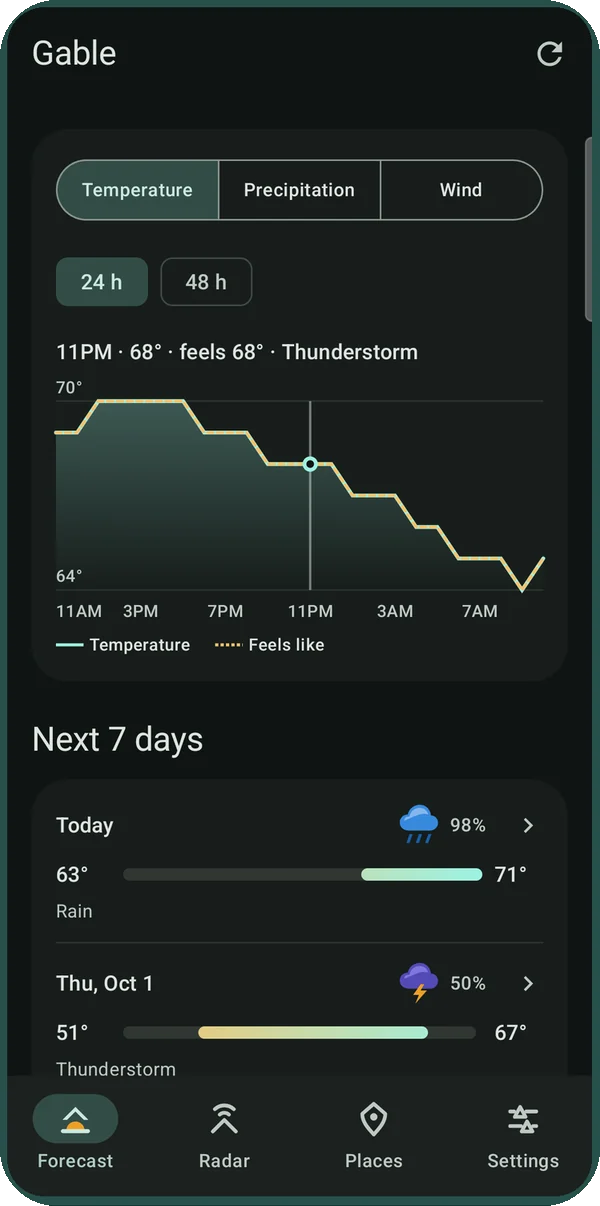
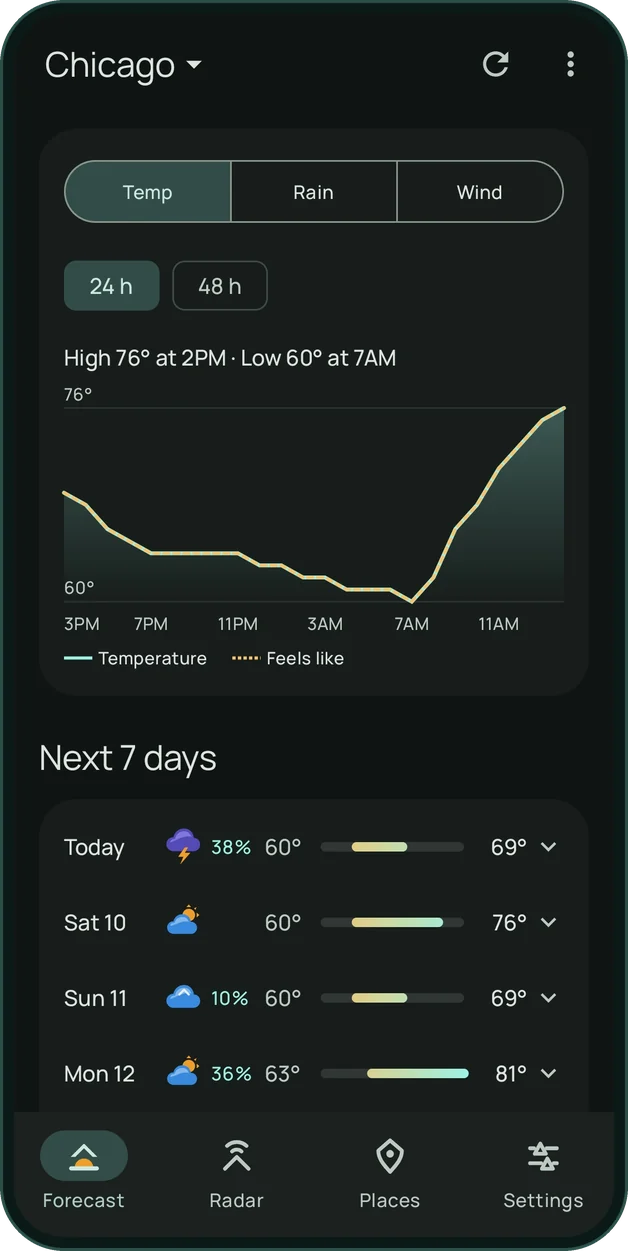
Gable page: new screenshots (Chicago forecast, raw and smooth radar, velocity, forecast discussion, charts) and a hurricane tracker section
Claude-Session: https://claude.ai/code/session_01N2TeVsyqh4sKut5D4sgKFN

diff --git a/gable/index.html b/gable/index.html
@@ -122,6 +122,10 @@
   .feature p { margin: 0 0 12px; max-width: 30em; }
   .tag { display: inline-block; font-size: 13px; font-weight: 600; color: var(--accent);
     border: 1px solid var(--border); border-radius: 999px; padding: 2px 10px; margin-top: 6px; }
+  .pair { display: flex; gap: 20px; justify-content: center; }
+  .pair figure { margin: 0; width: min(240px, 47%); text-align: center; font-size: 14px; color: var(--muted); }
+  .pair img { filter: drop-shadow(0 20px 40px rgba(10,39,36,.25)); margin-bottom: 10px; }
+  .feature.flip .pair { order: -1; }
   .shot { justify-self: center; width: min(300px, 100%); filter: drop-shadow(0 20px 40px rgba(10,39,36,.25)); }
 
   /* Numbered list */
@@ -195,7 +199,7 @@
           <span class="free"><b>Free</b> · No ads · Android</span>
         </div>
       </div>
-      <img class="hero-phone" src="../assets/gable/forecast.webp" width="600" height="1206" alt="Gable's forecast screen: a Flood Watch banner, a rainy 69 degree forecast card and a note that rain starts around 2:15 PM">
+      <img class="hero-phone" src="../assets/gable/forecast.webp" width="628" height="1251" alt="Gable's forecast for Chicago: 69 degrees and overcast, a quip about the clouds, and no rain expected for the next four hours">
     </div>
   </div>
 </header>
@@ -215,10 +219,13 @@
     <div>
       <div class="eyebrow">01 · RADAR</div>
       <h2>Your station's radar. <span class="soft">Not a blurry mosaic.</span></h2>
-      <p>Gable reads the scans from the NOAA radar nearest you, the same data meteorologists use, or the national MRMS mosaic when you want the big picture.</p>
+      <p>Gable reads the raw scans from the NOAA radar nearest you, the same data meteorologists use. Or switch to the smooth national MRMS mosaic for the big picture.</p>
       <p>Press and hold anywhere for the exact value at that spot.</p>
     </div>
-    <img class="shot" src="../assets/gable/radar.webp" width="600" height="1206" loading="lazy" alt="Gable radar showing the Des Moines station with rain and warning outlines">
+    <div class="pair">
+      <figure><img src="../assets/gable/radar.webp" width="628" height="1251" loading="lazy" alt="Raw station radar over Chicago and Milwaukee, with showers over Lake Michigan"><figcaption>Station scan</figcaption></figure>
+      <figure><img src="../assets/gable/radar-smooth.webp" width="628" height="1251" loading="lazy" alt="The same showers on the smooth national radar mosaic"><figcaption>National mosaic</figcaption></figure>
+    </div>
   </section>
 
   <section class="feature flip">
@@ -228,7 +235,7 @@
       <p>Velocity shows wind toward and away from the radar, so tight rotation stands out. Hail and precipitation type show what's actually falling.</p>
       <span class="tag">With Gable Spotter</span>
     </div>
-    <img class="shot" src="../assets/gable/velocity.webp" width="600" height="1206" loading="lazy" alt="Gable velocity radar with a press-and-hold reading of 14 knots moving away from the radar">
+    <img class="shot" src="../assets/gable/velocity.webp" width="628" height="1251" loading="lazy" alt="Velocity from the Chicago radar: green toward the radar, red away, over Lake Michigan">
   </section>
 
   <section class="feature" id="forecasts">
@@ -236,9 +243,10 @@
       <div class="eyebrow">03 · FORECASTS</div>
       <h2>In the words of local forecasters.</h2>
       <p>In the U.S., forecasts come from your National Weather Service office, with the forecaster's own summary for every day. Everywhere else, MET Norway.</p>
-      <p>Open any day for its hourly curve, UV, sunrise and sunset, the moon, dew point and pressure.</p>
+      <p>Want the why? Read the office's forecast discussion, key messages first: the reasoning behind the forecast, straight from the people who wrote it.</p>
+      <span class="tag">Forecast discussion with Gable Spotter</span>
     </div>
-    <img class="shot" src="../assets/gable/day.webp" width="600" height="1206" loading="lazy" alt="A day's detail in Gable with an hourly temperature chart and the forecaster's summary">
+    <img class="shot" src="../assets/gable/discussion.webp" width="628" height="1251" loading="lazy" alt="The National Weather Service Chicago forecast discussion in Gable, with key messages and the forecaster's discussion">
   </section>
 
   <section class="feature flip">
@@ -247,7 +255,17 @@
       <h2>Drag through the day. <span class="soft">Hour by hour.</span></h2>
       <p>Temperature, rain and wind charts you can scrub with a finger, and a Rain soon card that says when rain starts or stops, down to 15 minutes, from NOAA's HRRR model.</p>
     </div>
-    <img class="shot" src="../assets/gable/charts.webp" width="600" height="1206" loading="lazy" alt="Gable's temperature chart with a feels-like line, above the next seven days">
+    <img class="shot" src="../assets/gable/charts.webp" width="628" height="1251" loading="lazy" alt="Gable's 24-hour temperature chart for Chicago with a feels-like line, above the next seven days">
+  </section>
+
+  <section class="feature flip" id="hurricanes">
+    <div>
+      <div class="eyebrow">05 · HURRICANES</div>
+      <h2>Hurricane season, tracked. <span class="soft">From the people who forecast it.</span></h2>
+      <p>The National Hurricane Center's cone, track, wind field and warnings over a live satellite loop, with how far your place is from the center and whether it's inside the cone.</p>
+      <span class="tag">Always free</span>
+    </div>
+    <img class="shot" src="../assets/gable/hurricane.webp" width="628" height="1251" loading="lazy" alt="Gable's hurricane tracker: a Category 3 hurricane near the Florida Panhandle with its forecast cone and track over satellite imagery">
   </section>
 
   <section class="more">
@@ -255,7 +273,7 @@
     <ol>
       <li><h3>Severe weather alerts</h3><p>NWS warnings for your places, with quiet hours that never silence a tornado or flash flood warning.</p></li>
       <li><h3>Future radar</h3><p>Where the rain is headed over the next hours, from Gable's own HRRR forecast radar.</p></li>
-      <li><h3>Hurricane tracker</h3><p>Active storms and their forecast tracks from the National Hurricane Center. Always free.</p></li>
+      <li><h3>Rain, minute by minute</h3><p>When rain starts and stops over the next hours, with a little commentary, and live countdowns with Spotter.</p></li>
       <li><h3>Your places</h3><p>Save the places you care about and swipe between them. Alerts follow each one.</p></li>
       <li><h3>Home screen widgets</h3><p>Conditions, the rain-soon chart and the days ahead on your home screen, with Spotter.</p></li>
       <li><h3>A little personality</h3><p>The sky on the forecast card moves with the weather, and Gable has a few opinions about it.</p></li>
